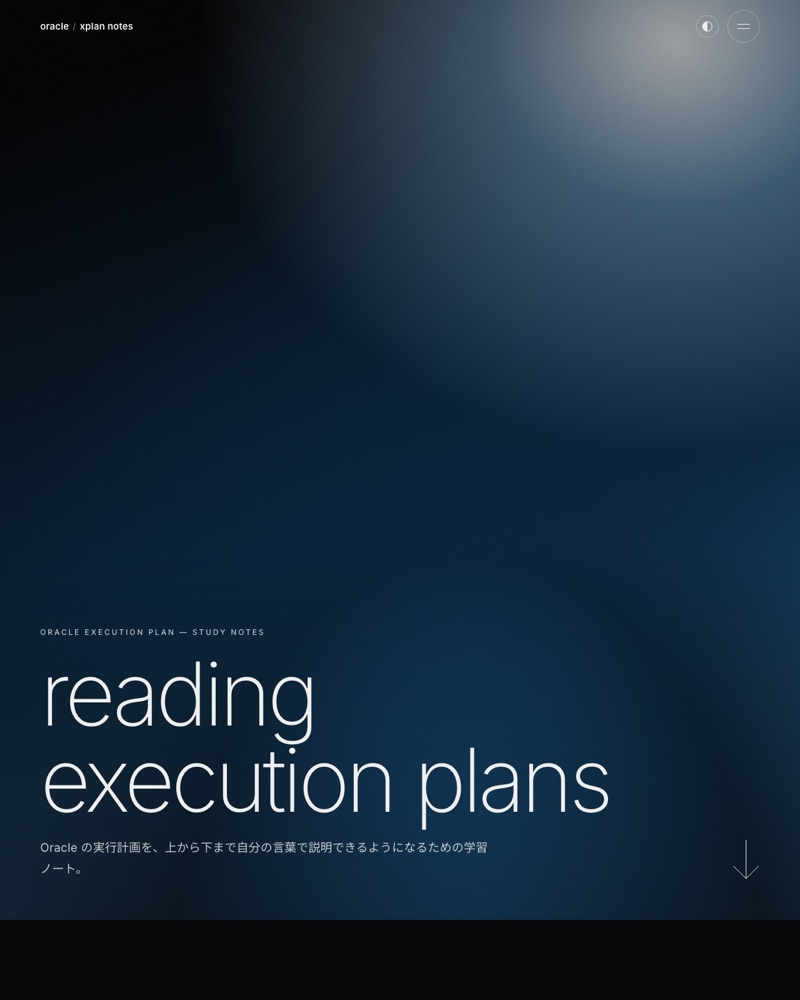
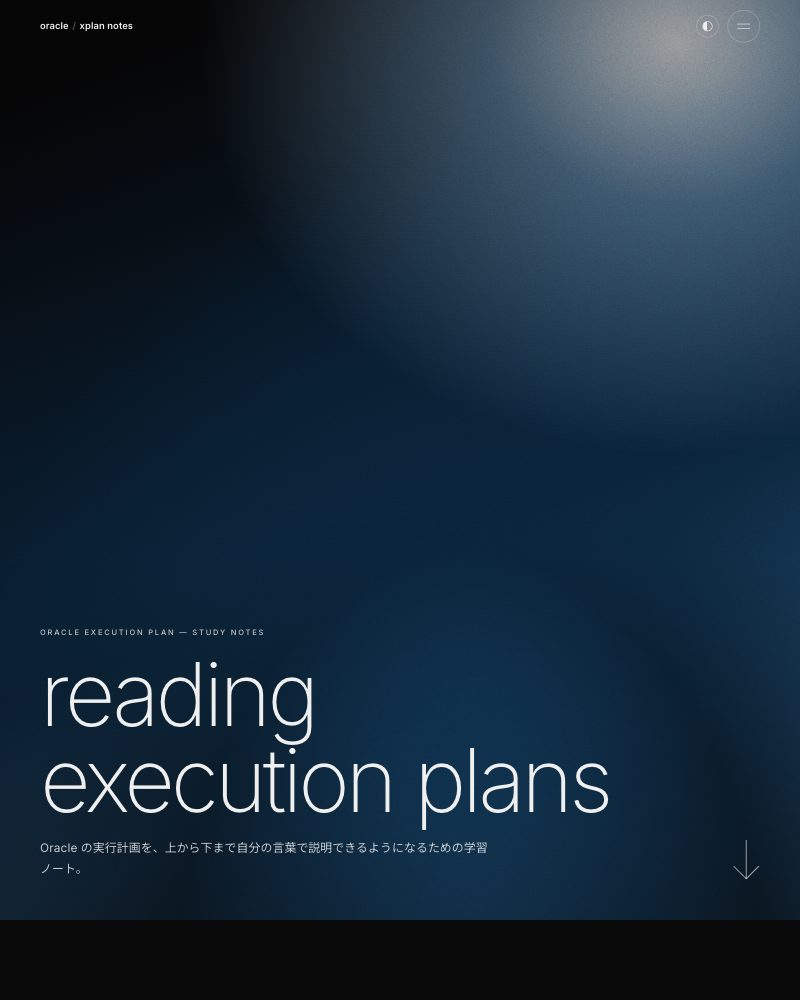
サムネイルを毎日自動で撮り直す
- tools/capture.mjs を追加し、Pages が有効な全サイトを Playwright で撮る。前回と見た目が変わらなければ書き換えない
- 毎日 03:00 JST に撮影してから公開するワークフローを追加し、公開を GitHub Actions に切り替える
- API で見つけたサイトにも撮影済みのサムネイルを出し、なければ文字のカードにする
- xx-split-trackball-keyboard を一覧に加え、charset-study の題名をいまのページに合わせる
- Mac 専用だった tools/capture.sh を削除する

diff --git a/assets/hub.js b/assets/hub.js
@@ -23,15 +23,13 @@
       var a = el("a", "tile");
       a.href = s.url;
       a.setAttribute("data-category", s.category);
-      if (s.thumb) {
-        var img = el("img");
-        img.src = s.thumb;
-        img.alt = s.title;
-        img.loading = "lazy";
-        a.appendChild(img);
-      } else {
-        a.appendChild(el("div", "tile-type", s.repo));
-      }
+      // サムネイルは毎日の自動撮影で thumbs/<repo>.jpg にできる。まだなければ文字のカードにする
+      var img = el("img");
+      img.src = s.thumb;
+      img.alt = s.title;
+      img.loading = "lazy";
+      img.addEventListener("error", function () { img.replaceWith(el("div", "tile-type", s.repo)); });
+      a.appendChild(img);
       var info = el("div", "tile-info");
       info.appendChild(el("p", "tile-title", s.title));
       info.appendChild(el("p", "tile-meta", [s.category].concat(s.tags || []).join(" / ")));
@@ -103,7 +101,7 @@
               title: r.description || r.name,
               category: "Other",
               tags: [r.language].concat(r.topics || []).filter(Boolean),
-              thumb: null,
+              thumb: "thumbs/" + r.name + ".jpg",
               url: r.homepage || pagesUrl(r.name)
             });
             added = true;

diff --git a/README.md b/README.md
@@ -5,23 +5,30 @@ msk-1 が GitHub Pages で公開しているサイトの一覧。<https://msk-1.
 ## しくみ
 
 - `sites.json` に、サイトごとの題名・説明・カテゴリ・タグ・撮影サイズを書く。ページを開くとまずこの内容を表示する
-- 続けて GitHub API で Pages が有効な公開リポジトリを取得する。`sites.json` にないものは、カテゴリ「Other」として自動で追加する。サムネイルの代わりにリポジトリ名を大きく描いたカードを出す
+- 続けて GitHub API で Pages が有効な公開リポジトリを取得する。`sites.json` にないものは、カテゴリ「Other」として自動で追加する
 - API が回数制限などで使えないときは、`sites.json` の内容だけで表示する
 - 右下のカテゴリは `sites.json` の `category` から作る
 
-## サイトを追加・更新したとき
+## サムネイルの自動更新
 
-1. `sites.json` に 1 件足す（`shot` は撮影時の画面サイズ。縦長にすると一覧で大きく見える）
-2. サムネイルを撮る
+`.github/workflows/pages.yml` が毎日 03:00（JST）に動き、Pages が有効な全サイトを撮り直す。
 
-   ```sh
-   tools/capture.sh <repo>   # 1 サイトだけ
-   tools/capture.sh          # 全サイト
-   ```
+1. `tools/capture.mjs` が Playwright（Chromium）で各サイトを撮り、`thumbs/<repo>.jpg`（幅 800px）に書く
+2. 前回の画像と比べて差のある画素が 0.3% 未満なら書き換えない（撮るたびに数画素ずれる分を無視するため）
+3. 画像が変わったときだけ github-actions[bot] がコミットし、同じ実行の中でサイトを公開し直す
 
-   `thumbs/<repo>.jpg`（幅 800px）ができる。macOS の Google Chrome と `sips` を使う
+新しいサイトを公開したときも、翌日の自動撮影でサムネイルが付く。すぐに撮りたいときは、Actions の画面から Pages ワークフローを手動実行する（`gh workflow run pages.yml`）。
 
-3. `main` に push する
+撮影サイズは `sites.json` の `shot`（例: `"1280x1600"`）で決める。指定がなければ 1280x900。縦長にすると一覧で大きく見える。
+
+## 手元で撮る場合
+
+```sh
+npm install --no-save playwright@1.49.1
+npx playwright install chromium
+node tools/capture.mjs            # 全サイト
+node tools/capture.mjs <repo>     # 1 サイトだけ
+```
 
 ## ローカルでのプレビュー
 
